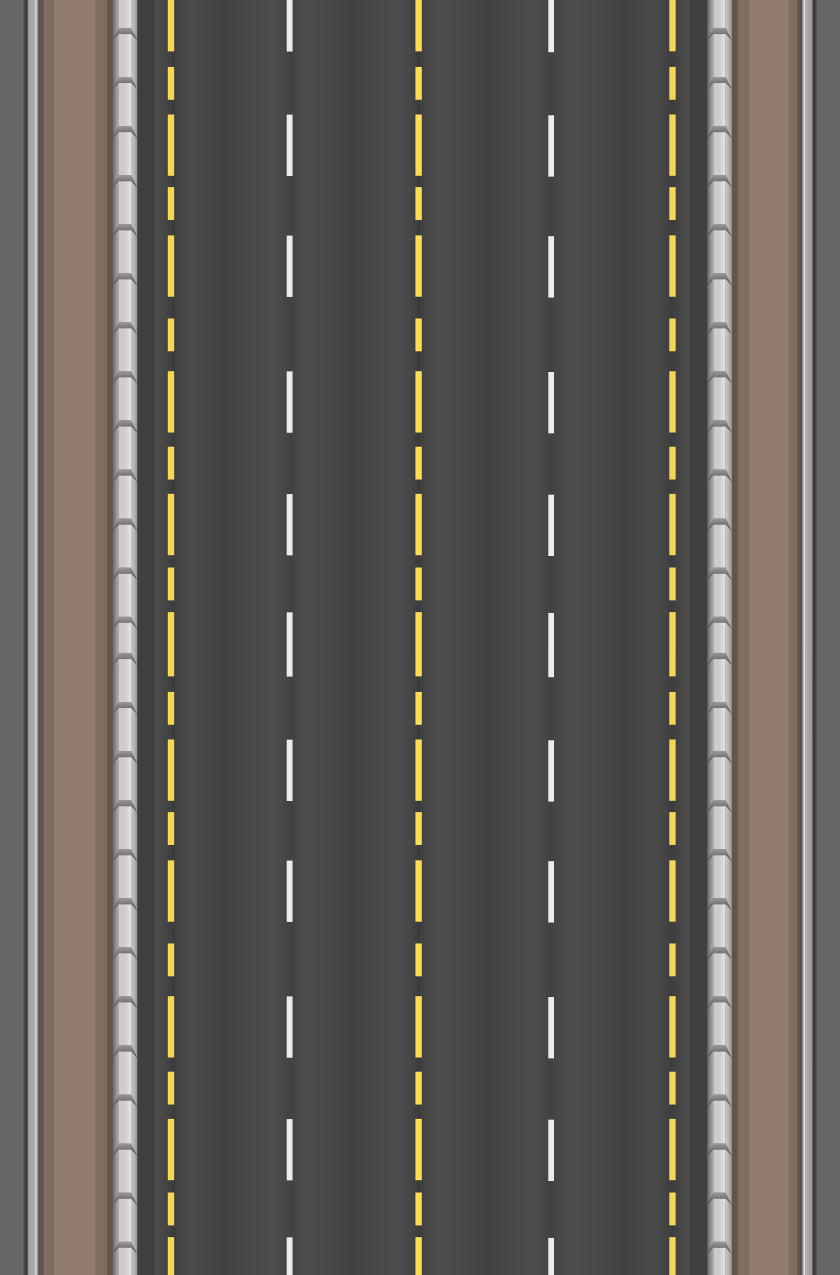
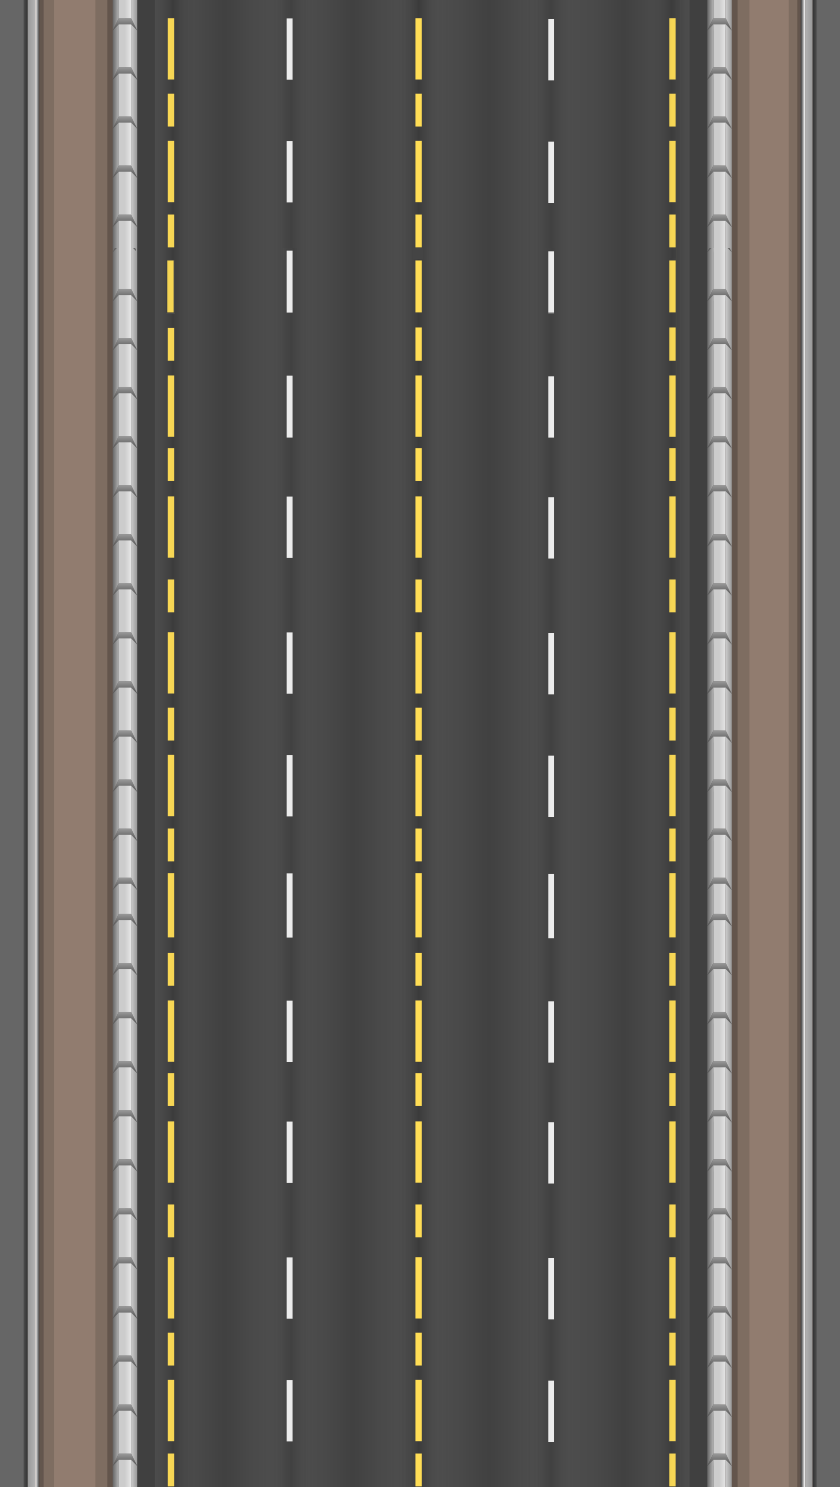
attempting to add smooth background screen wrapping

diff --git a/spawn_sprites_v3.py b/spawn_sprites_v3.py
@@ -18,16 +18,31 @@ class Coordinate:
         self.y = y
     
     def format(self):
+        """Returns the players formatted coordinates (x, y) as a tuple"""
         return (self.x, self.y)
 
 
-class Player:
+class Player(Coordinate):
     def __init__(self, color):
+        # Initiate the coordinate class
+        super().__init__(100, 100)
+        
+        
         self.color = color
-        self.image = pygame.image.load(get_player_filename(color))
+        image = pygame.image.load(get_player_filename(color))
+        
+        # Scale the player 
+        scale = 1.25
+
+        self.image = pygame.transform.scale(image, (int(image.get_width() * scale)
+                                                         , int(image.get_height() * scale)))
 
     def get_player_filename(self):
         return PLAYER_PREFIX + self.color + IMAGE_SUFFIX
+
+    def get_coords(self):
+        """Return the x, y coords as a tuple (x, y)"""
+        return self.format()
 
 
 def background():
@@ -46,13 +61,12 @@ def background():
         background_coords[1].y += 5
         
         
-        if background_coords[0].y >= 700:
-            background_coords[0].y = -700
-            background_coords[1].y = 0
+        if background_coords[0].y >= y_lower_bound:
+            background_coords[0].y = y_upper_bound
         
-        if background_coords[1].y >= 700:
-            background_coords[1].y = -700
-            background_coords[0].y = 0
+        if background_coords[1].y >= y_lower_bound:
+            background_coords[1].y = y_upper_bound
+
     
     move_background()
     
@@ -60,10 +74,10 @@ def background():
     screen.blit(background_image, background_coords[1].format())
     
 
-def player():
+def player(player_object: Player):
     """Draw the player image on the screen"""
     
-    screen.blit(player_image_global, player_coords.format())
+    screen.blit(player_object.image, player_object.get_coords())
 
 
 # Initialize pygame and set the display caption
@@ -75,23 +89,38 @@ screen = pygame.display.set_mode(DISPLAY_SIZE)
 player_velocity = 0
 velocity = Coordinate(0, 0) # Store the players velocity as a coordinate x,y
 player_coords = Coordinate(100, 100)
-background_coords: list[Coordinate] = [Coordinate(0, 0), Coordinate(0, -700)]
 
+# Define all background related variables
+background_coords: list[Coordinate] = [Coordinate(0, 0), Coordinate(0, -700)]
+background_image = pygame.image.load("background.png")
+background_scale_x =  DISPLAY_SIZE[0] / background_image.get_width()
+background_scale_y =  (DISPLAY_SIZE[1] * 2) / background_image.get_height()
+background_image = pygame.transform.scale(background_image, (int(background_image.get_width() * background_scale_x)
+                                                         , int(background_image.get_height() * background_scale_y)))
+
+new_background_image_height = background_image.get_height()
+fps = 60
+
+
+# Defines the y upper and lower bound to give the illusion of screen wrapping for the background
+y_upper_bound = -new_background_image_height
+y_lower_bound = DISPLAY_SIZE[1]
 
 # Get the players sprite based on the color given
 player_images = ["black", "blue", "red", "white"]
 get_player_filename = lambda player_color: PLAYER_PREFIX + player_color + IMAGE_SUFFIX
 
 player_image_global = pygame.image.load( get_player_filename("red") )
-background_image = pygame.image.load("background.png")
-background_image = pygame.transform.scale(background_image, DISPLAY_SIZE)
 
-fps = 60
+
+
 
 
 # Main routine
 
 finished = False
+player_object = Player("blue")
+
 
 # Main loop
 while not finished:
@@ -99,7 +128,7 @@ while not finished:
     clock = pygame.time.Clock()
     screen.fill((0, 0, 0))
     background()
-    player()
+    player(player_object)
     
     pygame.display.update()
     clock.tick(fps)
@@ -113,9 +142,9 @@ while not finished:
         elif event.type == pygame.KEYDOWN:
             # Player movement (horizontal only for now)
             if event.key == pygame.K_LEFT or event.key == pygame.K_a:
-                player_coords.x -= 20
+                player_object.x -= 20
             elif event.key == pygame.K_RIGHT or event.key == pygame.K_d:
-                player_coords.x += 20
+                player_object.x += 20
 
             
         elif event.type == pygame.MOUSEBUTTONDOWN:
